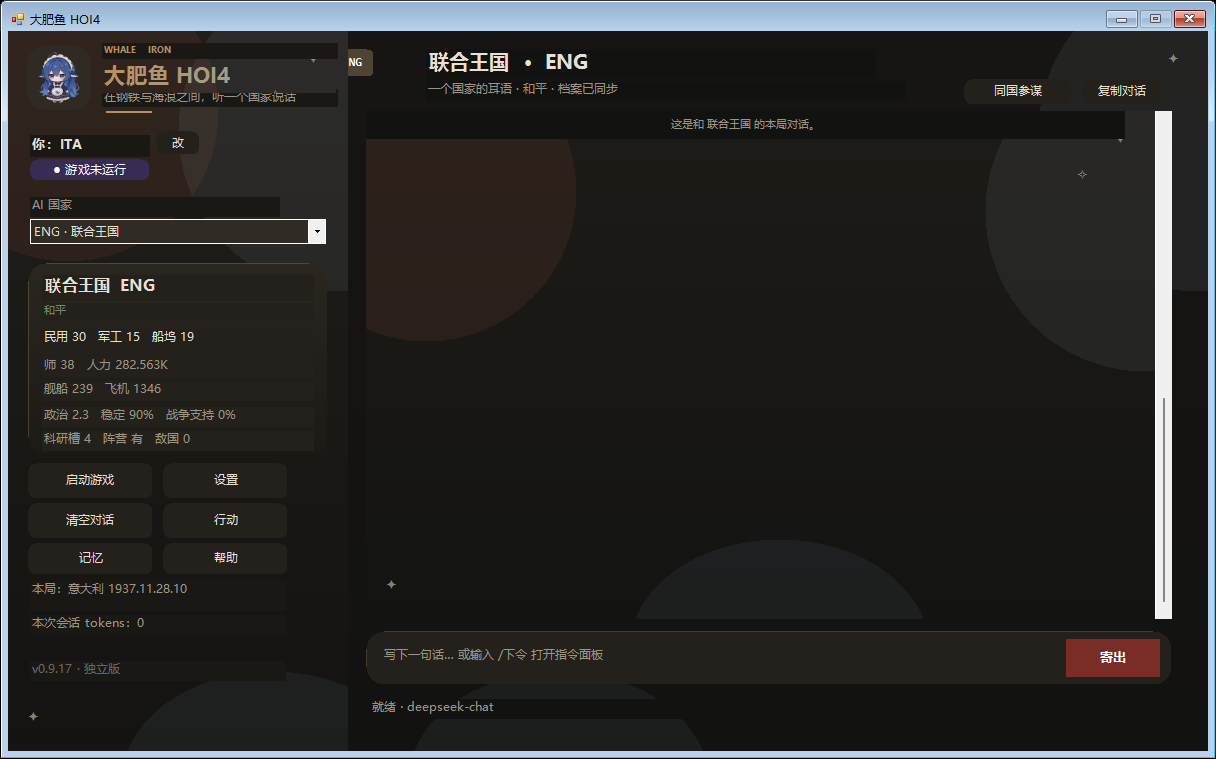
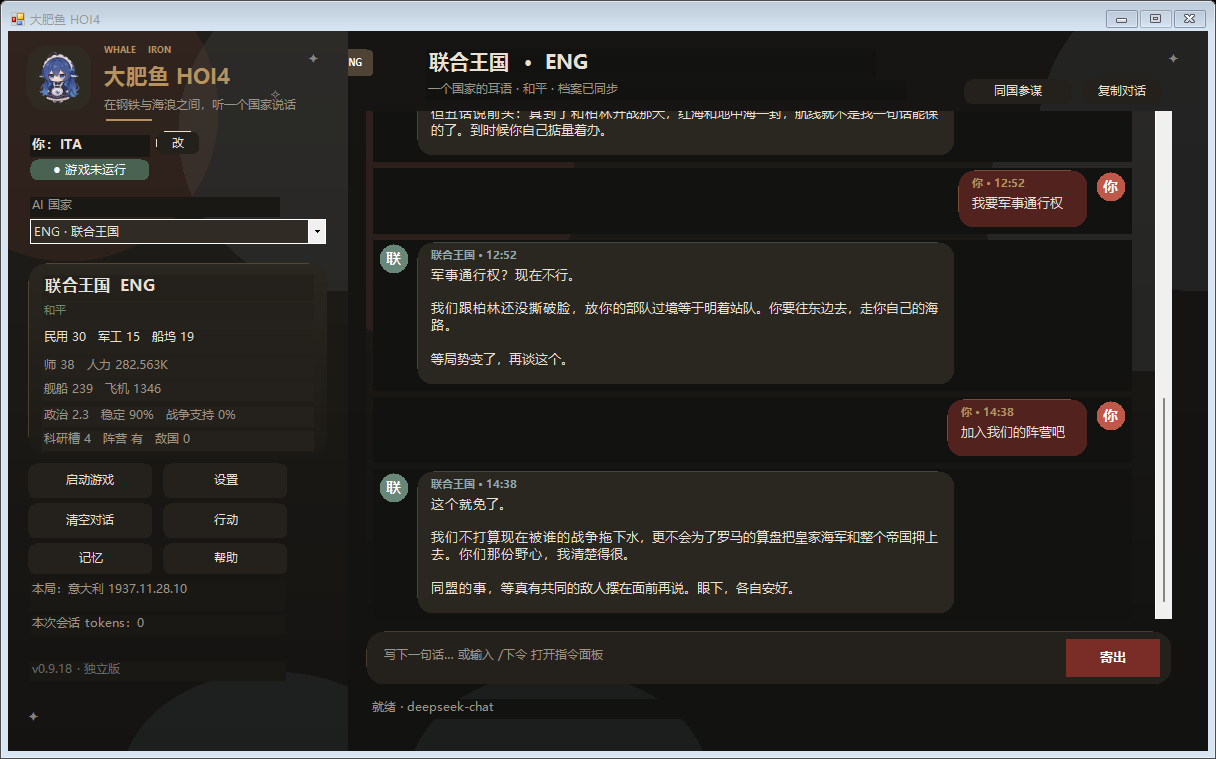
v0.9.19: remove clipped title panel, final iron UI

diff --git a/README.md b/README.md
@@ -2,7 +2,7 @@
 
 让《钢铁雄心 4》里的 AI 国家真正“会说话”：你玩一个国家，DeepSeek 扮演另一个国家；它读取自己的工厂、师、船、飞机、战争和阵营状态，记住你说过的话，和你谈判、拒绝、提条件。
 
-**公开 Beta：v0.9.18**
+**公开 Beta：v0.9.19**
 
 > 这是独立项目，不依赖 NationMind。自己的配套 mod（`DFY|` 日志协议）+ 自己的外部 Windows 软件。
 >
@@ -174,8 +174,8 @@ dafeiyu-hoi4/
 
 ## 发布
 
-- GitHub Release：https://github.com/QuanWander/dafeiyu-hoi4/releases/tag/v0.9.18
-- 资产：`DaFeiYuHOI4-v0.9.18.zip`、`SHA256SUMS.txt`
+- GitHub Release：https://github.com/QuanWander/dafeiyu-hoi4/releases/tag/v0.9.19
+- 资产：`DaFeiYuHOI4-v0.9.19.zip`、`SHA256SUMS.txt`
 - 发布说明：[RELEASE_NOTES.md](RELEASE_NOTES.md)
 
 ## License

diff --git a/CHANGELOG.md b/CHANGELOG.md
@@ -1,5 +1,11 @@
 # Changelog
 
+## v0.9.19 — 2026-11-08
+
+- 彻底移除左上角透明标题 Panel（WinForms 下会渲染成深色块并裁切顶端文字）。
+- 标题改为 AutoSize Label，副标题完整显示；截图确认顶端不再被挡。
+- 保留 v0.9.18 的 1200×720/340px 侧栏和铁血配色。
+
 ## v0.9.18 — 2026-11-08
 
 - 主窗口从 1040×660 扩到 **1200×720**，侧栏 300→340px，聊天区整体右移并加宽。

diff --git a/RELEASE_NOTES.md b/RELEASE_NOTES.md
@@ -1,4 +1,4 @@
-# DaFeiYu HOI4 v0.9.18
+# DaFeiYu HOI4 v0.9.19
 
 独立项目，不依赖 NationMind。
 
